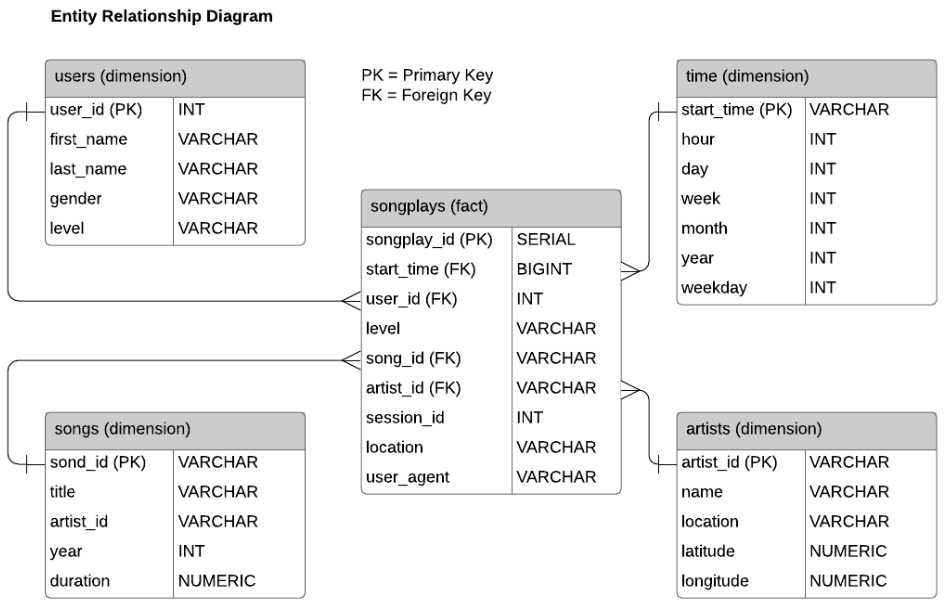
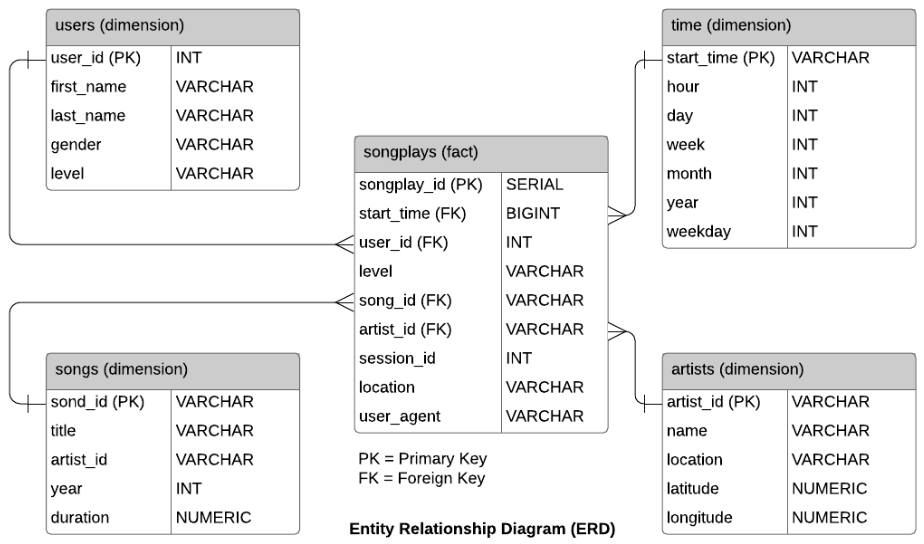
Add files via upload
- Update to ERD image
- Added ON CONFLICT DO NOTHING to INSERT statements in sql_queries.py (etl.py now runs without errors)
- Reran/saved test.ipynb after update to sql_queries.py

Changed region(s): [[0.0, 0.0, 1.0, 1.0], [0.3636, 0.9375, 0.6667, 1.0], [0.3636, 0.0938, 0.5152, 0.1875]]

diff --git a/sql_queries.py b/sql_queries.py
@@ -105,6 +105,7 @@ song_table_insert = ("""
        year,
        duration)
     VALUES (%s, %s, %s, %s, %s)
+    ON CONFLICT DO NOTHING
 """)
 
 artist_table_insert = ("""
@@ -129,6 +130,7 @@ time_table_insert = ("""
        year,
        weekday)
     VALUES (%s, %s, %s, %s, %s, %s, %s)
+    ON CONFLICT DO NOTHING
 """)
 
 # FIND SONGS
